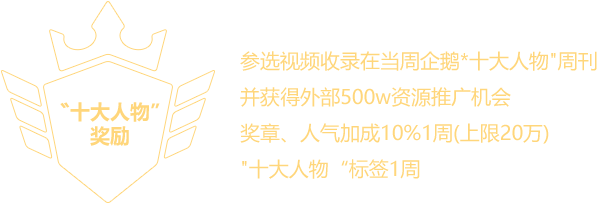
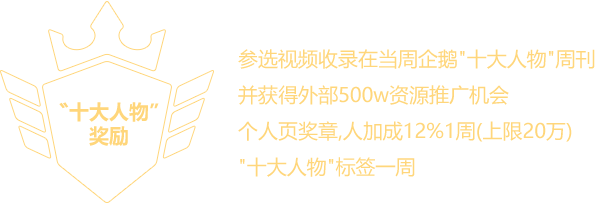
medal text

diff --git a/src/views/Rule.vue b/src/views/Rule.vue
@@ -4,13 +4,15 @@
       <header class="rule-header"></header>
       <div class="rule-warp">
         <ul class="rule-list">
-          <li>1.活动时间为: 6月10日-6月18日</li>
-          <li>2.主播战区划分:根据主播近30天开播最多品类自动分战区，战区不可调整。</li>
-          <li>3.主播分级:根据5月流水排名, 1-15名为传说成员、16- 30名为超凡成员，31-50名为高手成员，其余主播为勇者成员。</li>
-          <li>4.主播活动期间所有收到的钻石礼物按照价们自动换算成票数,其中普通礼物1钻石=1票，“狗东”礼物1个=50票，“大神奖章"1个=2票。BUFF礼物获取方法:直接购买+金卡传说专区兑换。</li>
-          <li>5.主播奖励:人奖励:以活动期间主播日均人气值为计算基准，保底1w加成，最高加成不超过30w,其他牌面奖励将于活动结束后的7个工作日内人工联系发放。</li>
-          <li>6.用户奖励:获得"618快递宝箱”中实物奖励的用户需在页面及时填写有效的联系方式，否则视为放弃奖励;获得最强粉丝奖励的用户，奖励将于7个工作日内发放至背包。</li>
-          <li>7.腾讯公司保留法律范围内对活动规则进行解释的权利。</li>
+          <li>1活动时间:每周</li>
+          <li>2.主播分区:根据每周一零点时，主播近30天开播最多品类自动划分，分区不可调整。</li>
+          <li>3.提名主播评选:</li>
+          <li>1)“十大人物”候选人评选:给主播赠送大神奖章和鹅蛋，帮主播获得积分，每周十大专区的TOP3成为下周*十大人物”候选人，1个大神奖章= 1积分，用户完成对应"奖章任务”可免费领取大神奖章，每位用户每天的前100个鹅蛋也可为主播增加积分;</li>
+          <li>2)“十佳视频”评选:每周用户在页面上对上周30位候选人视频点赞，赞数的TOP10视频为本周“十佳视频",对应主播为当周"十大人物"，用户完成对应点赞任务”可免费获得点赞资格;</li>
+          <li>3)“封面人物": TOP1为当周封面人物;</li>
+          <li>4.主播奖励:人气奖励:以活动期间主播日均人(值为计算基准，保底5w加成，最高加成不超过30w;个人页奖章将配合app新版本上线时发放;其他牌面奖励将于活动结束后的7个工作日内人工联系发放。</li>
+          <li>5.用户奖励:抽奖获得的礼物将即时发放至用户背包。</li>
+          <li>6.腾讯公司保留法律范围内对活动规则进行解释的权利。</li>
         </ul>
       </div>
       <footer class="rule-footer">

diff --git a/src/views/act-main.vue b/src/views/act-main.vue
@@ -159,7 +159,7 @@
         </div>
       </div>
       <div class="anchors__task">
-        <img class="anchors__task__banner" src="../img/task-banner.png"/>
+        <img class="anchors__task__banner" src="../img/task-banner-2.png"/>
         <div class="anchors__task__items">
           <img src="../img/video-task1.png">
           <img src="../img/video-task2.png">
